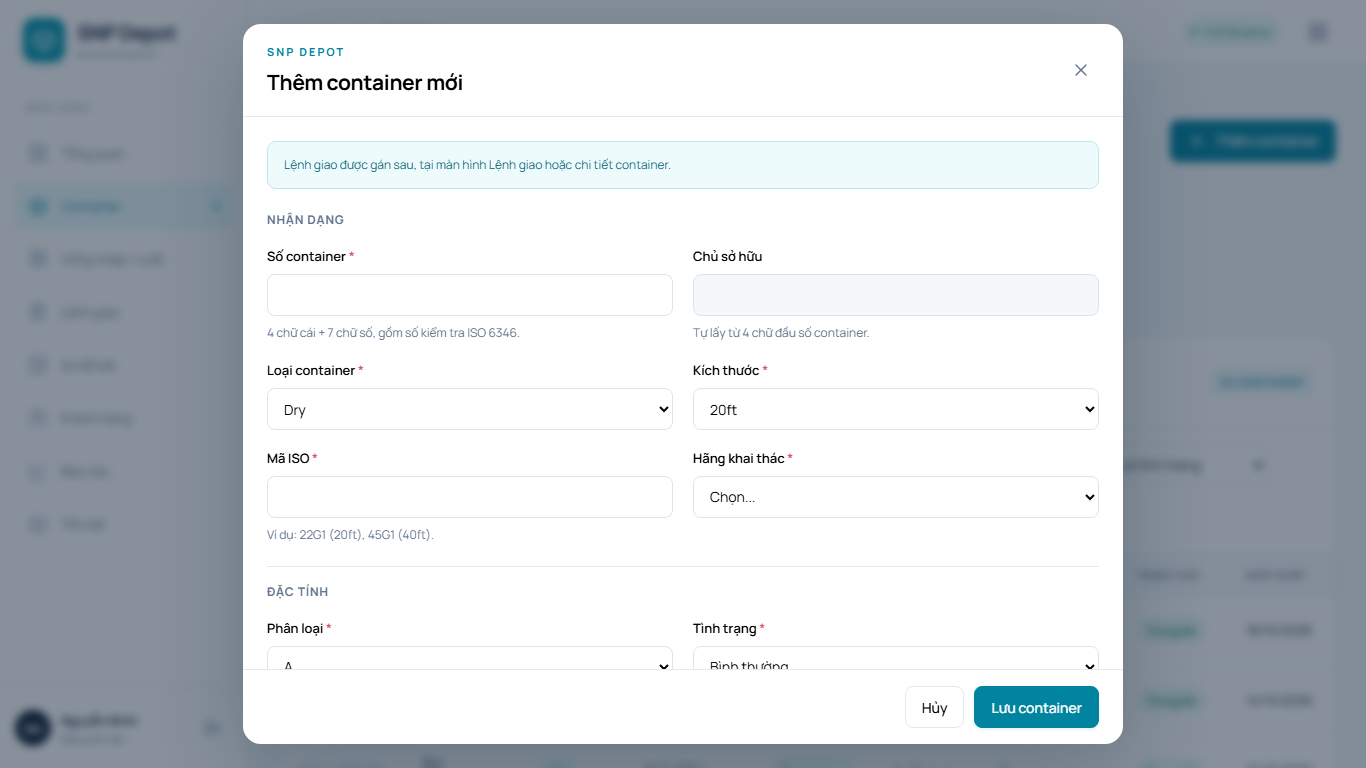
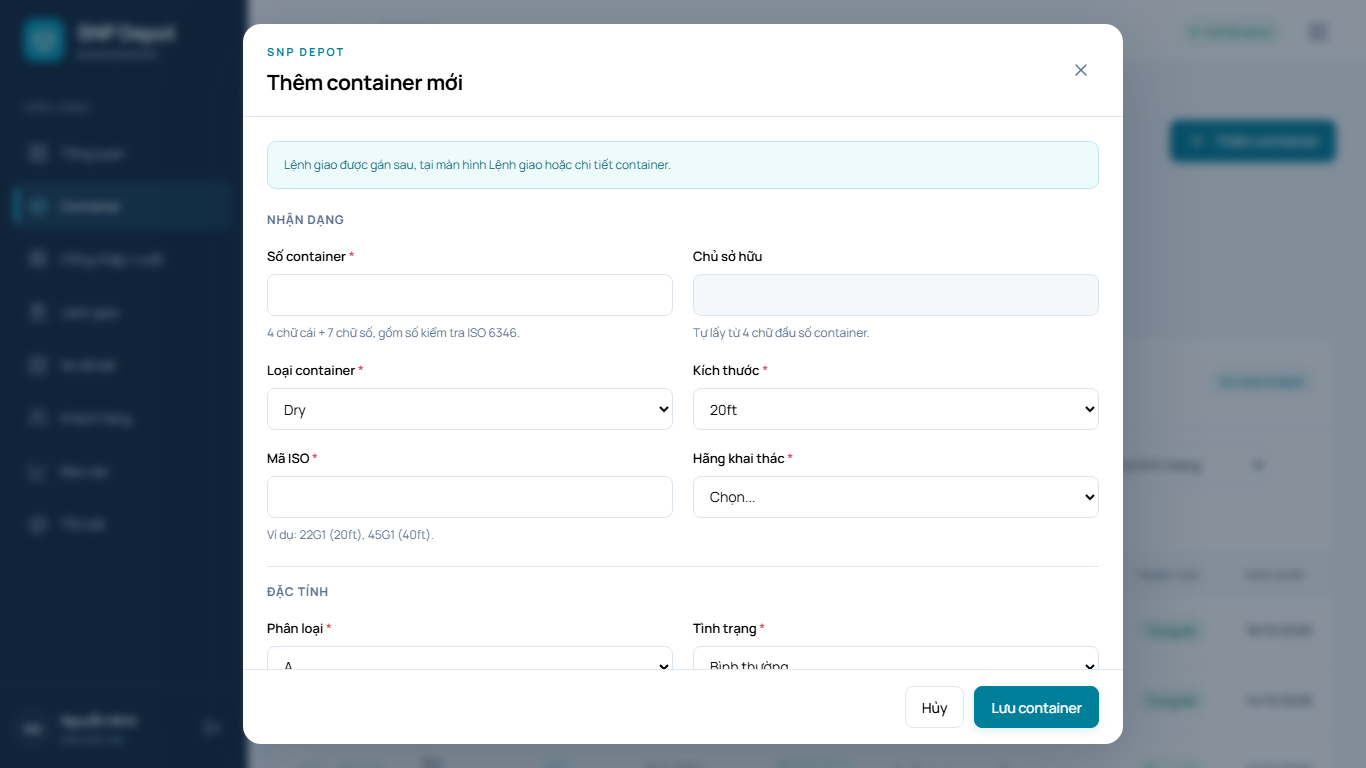
style(frontend): apply navy and cyan reference palette

Changed region(s): [[0.0, 0.0, 0.1845, 1.0]]

diff --git a/frontend/src/styles.scss b/frontend/src/styles.scss
@@ -8,12 +8,19 @@
 @use '@fontsource/manrope/vietnamese-700.css';
 @use './styles/extras';
 :root {
-  --ink: #122137;
-  --muted: #61758e;
-  --teal: #0084a0;
-  --teal-dark: #006e86;
-  --border: #e2e9f0;
-  --bg: #f5f8fa;
+  --ink: #102139;
+  --muted: #5e728e;
+  --teal: #007f9b;
+  --teal-dark: #006b83;
+  --border: #dfe7f1;
+  --bg: #f4f8fc;
+  --sidebar-bg: #10253b;
+  --sidebar-text: #c3d2e5;
+  --sidebar-muted: #9eb3ce;
+  --sidebar-active: #173b56;
+  --cyan: #20c9e5;
+  --chart-in: #0098b6;
+  --chart-out: #a5b4fc;
   --radius: 14px;
   font-family: Manrope, Arial, sans-serif;
   color: var(--ink);
@@ -141,7 +148,7 @@ svg {
   background: var(--teal);
   border-color: var(--teal);
   color: white;
-  box-shadow: 0 2px 3px #0084a019;
+  box-shadow: 0 3px 8px #007f9b20;
 }
 .button.primary:hover:not(:disabled) {
   background: var(--teal-dark);
@@ -646,8 +653,9 @@ tbody tr.clickable:hover {
   position: fixed;
   inset: 0 auto 0 0;
   width: 248px;
-  background: white;
-  border-right: 1px solid var(--border);
+  background: var(--sidebar-bg);
+  color: var(--sidebar-text);
+  border-right: 1px solid #1d3853;
   z-index: 40;
   display: flex;
   flex-direction: column;
@@ -692,11 +700,21 @@ tbody tr.clickable:hover {
 .brand.light small {
   color: #9bb9cb;
 }
+.sidebar .brand {
+  color: #f5f8ff;
+}
+.sidebar .brand small {
+  color: #b1c4dc;
+}
+.sidebar .brand-mark {
+  background: #009bb7;
+  box-shadow: 0 4px 12px #00152835;
+}
 .nav-label {
   font-size: 9px;
   letter-spacing: 1.8px;
   font-weight: 700;
-  color: #91a3ba;
+  color: var(--sidebar-muted);
   margin: 20px 26px 14px;
 }
 .sidebar nav {
@@ -705,36 +723,42 @@ tbody tr.clickable:hover {
   gap: 5px;
 }
 .sidebar nav a {
+  position: relative;
   display: flex;
   align-items: center;
   gap: 13px;
   padding: 14px 14px;
-  color: #647a92;
+  color: var(--sidebar-text);
   font-size: 13px;
   border-radius: 10px;
   min-height: 48px;
 }
 .sidebar nav a app-icon {
-  color: #91a5bf;
+  color: #aabed7;
 }
 .sidebar nav a:hover {
-  background: #f4f9fb;
+  background: #19344f;
+  color: #ffffff;
 }
 .sidebar nav a.active {
-  background: #eafbfd;
-  color: #007f99;
+  background: var(--sidebar-active);
+  color: #ffffff;
+  box-shadow: inset 0 0 0 1px #5bb5d21a;
 }
 .sidebar nav a.active app-icon {
-  color: #008ba6;
+  color: #6fe8fb;
 }
 .sidebar nav i {
   margin-left: auto;
 }
 .sidebar nav a.active i {
-  height: 5px;
-  width: 5px;
-  background: #009ab4;
-  border-radius: 50%;
+  position: absolute;
+  left: 0;
+  top: 7px;
+  bottom: 7px;
+  width: 4px;
+  background: var(--cyan);
+  border-radius: 4px;
 }
 .sidebar-bottom {
   margin-top: auto;
@@ -742,21 +766,23 @@ tbody tr.clickable:hover {
   display: flex;
   align-items: center;
   gap: 10px;
-  border-top: 1px solid var(--border);
+  border-top: 1px solid #ffffff12;
 }
 .sidebar-bottom strong {
   font-size: 12px;
+  color: #f3f7ff;
 }
 .sidebar-bottom small {
   display: block;
   font-size: 10px;
-  color: var(--muted);
+  color: var(--sidebar-muted);
   margin-top: 3px;
 }
 .avatar {
   width: 36px;
   height: 36px;
-  background: #142236;
+  background: #142c45;
+  border: 1px solid #4a6683;
   border-radius: 50%;
   color: white;
   display: grid;
@@ -766,6 +792,11 @@ tbody tr.clickable:hover {
 }
 .sidebar-bottom button {
   margin-left: auto;
+  color: #c3d2e5;
+}
+.sidebar-bottom button:hover {
+  background: #203e59;
+  color: #ffffff;
 }
 .workspace {
   margin-left: 248px;

diff --git a/frontend/src/app/features/dashboard/dashboard-page.ts b/frontend/src/app/features/dashboard/dashboard-page.ts
@@ -42,11 +42,11 @@ import { dayKey } from '../../demo/rules/container-rules';
       max-width: 32%;
       min-height: 3px;
       border-radius: 4px 4px 0 0;
-      background: #0095ad;
+      background: var(--chart-in);
       position: relative;
     }
     .bar.out {
-      background: #bdc8f3;
+      background: var(--chart-out);
     }
     .chart-column small {
       font-size: 10px;
@@ -65,10 +65,10 @@ import { dayKey } from '../../demo/rules/container-rules';
       height: 9px;
       border-radius: 3px;
       margin-right: 5px;
-      background: #0095ad;
+      background: var(--chart-in);
     }
     .legend i.out {
-      background: #bdc8f3;
+      background: var(--chart-out);
     }
     .block-line {
       margin-bottom: 22px;

diff --git a/frontend/src/styles/extras.scss b/frontend/src/styles/extras.scss
@@ -84,7 +84,10 @@
 
 .metric-trend {
   font-size: 10px;
-  color: #00856d;
+  color: #08765b;
+  background: #ecfaf3;
+  border-radius: 5px;
+  padding: 5px 8px;
   max-width: 115px;
   text-align: right;
   line-height: 1.6;

diff --git a/frontend/docs/demo-verification.md b/frontend/docs/demo-verification.md
@@ -50,3 +50,12 @@ Tự rà soát còn sửa hai điểm: nút đóng footer dùng chung quy trình
 | Dùng dữ liệu local, thêm chế độ trống | Đúng lựa chọn demo. Seed backend chưa tự hiện trên UI; chưa có xác thực/phân quyền thật hoặc chứng nhận nghiệp vụ production. |
 
 Review không đánh giá lại các quyết định kiến trúc đã ghi nhận, quy tắc production backend hay xác thực thật vì ngoài phạm vi. Các quyết định này được giữ; không có phát hiện Minor bị hoãn. Không push, merge hoặc publish.
+
+## Cập nhật bảng màu theo ảnh mẫu
+
+Áp dụng sidebar navy `#10253b`, mục chọn navy sáng hơn với vạch cyan, nền nội dung `#f4f8fc`, nút chính teal `#007f9b`, biểu đồ cyan/indigo và nhãn xu hướng xanh nhạt. Chỉ đổi style, giữ bố cục và nghiệp vụ.
+
+- Production build mới thành công: initial bundle 347,95 kB (ước tính truyền 97,21 kB).
+- 3 kiểm tra Chromium liên quan đều pass: điều hướng toàn bộ trang/không tràn viewport, form tablet, dialog dài với focus/footer ở bốn viewport. Không chạy lại unit test nghiệp vụ trong lượt chỉ đổi màu này.
+- Tương phản đo trên các cặp màu: chữ trắng/nút chính 4,66:1; chữ menu/navy 10,13:1; chữ phụ/navy 7,26:1.
+- Ảnh Tổng quan, Cổng, Sơ đồ bãi, Tồn bãi và bốn ảnh form được chụp lại. Đã mở ảnh Tổng quan để kiểm tra trực quan sidebar và bảng màu mới.
